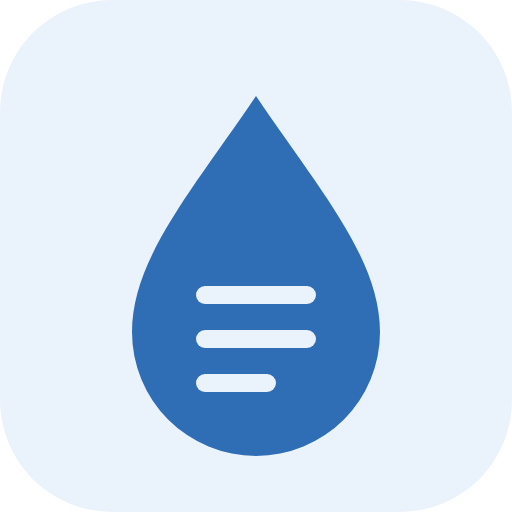
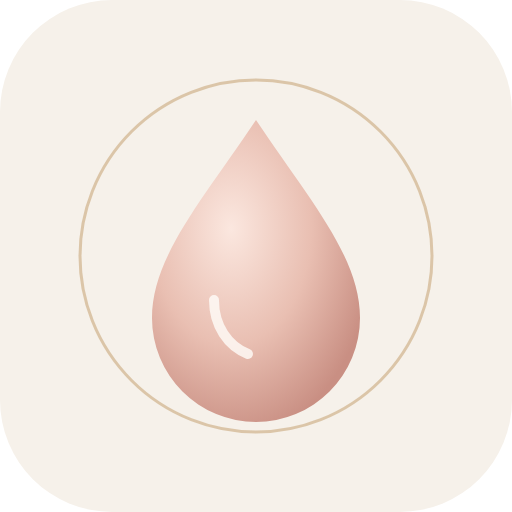
トップページと配色を美容テイストに刷新

diff --git a/index.html b/index.html
@@ -3,7 +3,7 @@
 <head>
 <meta charset="utf-8">
 <meta name="viewport" content="width=device-width, initial-scale=1, viewport-fit=cover">
-<meta name="theme-color" content="#2f6db5">
+<meta name="theme-color" content="#f6f1ea">
 <meta name="description" content="化粧品の登録、曜日ごとの朝・夜ルーティン、成分の重なりチェックができる無料のスキンケア管理アプリ。データは端末内だけに保存。">
 <meta name="apple-mobile-web-app-capable" content="yes">
 <meta name="apple-mobile-web-app-title" content="スキンケア">
@@ -143,6 +143,54 @@ dialog::backdrop{background:rgba(10,25,45,.45)}
 .ocrbox .chips .chip{font-size:13px;text-align:left}
 .ocrbox textarea{font-size:13px}
 @media (prefers-reduced-motion:reduce){*{transition:none!important}}
+
+/* ===== beauty theme ===== */
+:root{
+  --serif:"Hiragino Mincho ProN","Hiragino Mincho Pro","Yu Mincho","YuMincho","Noto Serif JP","Noto Serif CJK JP",serif;
+  --sky:#f6f1ea; --paper:#fffdf9; --ink:#2b2622; --sub:#7d7068; --line:#e7ddd2;
+  --blue:#a5645a; --blue-deep:#7a453e; --tint:#f2e6de; --warn:#9c5532; --warn-bg:#f8eadf; --muted:#bcafa4; --ok:#6f8a6a;
+  --gold:#c9a97c; --bg:var(--sky); --card:var(--paper); --text:var(--ink);
+}
+:root[data-mode="night"]{
+  --bg:#1d191b; --card:#28222a; --text:#f2e9e2; --sub:#bfb0a6; --line:#3c3339;
+  --tint:#3a2f33; --blue:#dcaaa0; --blue-deep:#f1d2c9; --warn:#efb48f; --warn-bg:#3a2c27; --muted:#86797a; --gold:#bfa07a;
+}
+body{letter-spacing:.02em}
+header.top h1{font-family:var(--serif);font-weight:500;font-size:14px;letter-spacing:.28em;color:var(--sub)}
+.dow{font-family:var(--serif);font-weight:500;letter-spacing:0;color:var(--blue-deep)}
+h2,h3,.progress h2{font-family:var(--serif);font-weight:600;letter-spacing:.06em}
+.chip[aria-pressed="true"],:root[data-mode="night"] .chip[aria-pressed="true"]{color:var(--bg)}
+.btn{border-radius:999px;padding:10px 18px;letter-spacing:.06em}
+.btn.primary,:root[data-mode="night"] .btn.primary{background:var(--ink);border-color:var(--ink);color:var(--paper)}
+:root[data-mode="night"] .btn.primary{background:var(--blue-deep);border-color:var(--blue-deep);color:var(--bg)}
+.btn.sm{border-radius:999px}
+ol.steps li,.card,details.prod{border-color:var(--line);box-shadow:0 1px 2px rgba(60,40,30,.04)}
+.bar{height:3px}
+.seg{background:var(--tint)}
+nav.tabs{background:color-mix(in srgb,var(--card) 92%,transparent);backdrop-filter:blur(10px);-webkit-backdrop-filter:blur(10px)}
+nav.tabs button[aria-current="page"]{color:var(--blue)}
+/* welcome */
+.welcome{position:relative;min-height:calc(100vh - 140px);display:flex;flex-direction:column;justify-content:center;padding:36px 6px 24px;overflow:hidden}
+.w-orb{position:absolute;right:-90px;top:-40px;width:320px;height:320px;border-radius:50%;
+  background:radial-gradient(circle at 35% 35%,#fbe7df 0%,#f1cfc4 38%,#e9d8bf 70%,rgba(233,216,191,0) 72%);filter:blur(2px);opacity:.9;animation:wfloat 9s ease-in-out infinite;pointer-events:none}
+.w-orb::after{content:"";position:absolute;inset:-26px;border-radius:50%;border:1px solid color-mix(in srgb,var(--gold) 55%,transparent)}
+.w-orb::before{content:"";position:absolute;inset:-60px;border-radius:50%;border:1px solid color-mix(in srgb,var(--gold) 25%,transparent)}
+@keyframes wfloat{50%{transform:translateY(12px)}}
+.w-kicker{position:relative;font-family:var(--serif);font-size:12px;letter-spacing:.42em;color:var(--blue);margin:0 0 18px}
+.w-kicker::after{content:"";display:inline-block;width:40px;height:1px;background:var(--gold);vertical-align:middle;margin-left:12px}
+.w-title{position:relative;font-family:var(--serif);font-weight:500;font-size:clamp(30px,8.6vw,42px);line-height:1.45;letter-spacing:.08em;margin:0 0 18px;color:var(--ink)}
+.w-title em{font-style:normal;color:var(--blue)}
+.w-lead{position:relative;font-size:14.5px;line-height:2;color:var(--sub);margin:0 0 28px;max-width:30em}
+.w-actions{position:relative;display:flex;gap:10px;flex-wrap:wrap}
+.w-actions .btn{padding:13px 26px;font-size:15px}
+.w-note{position:relative;font-size:12px;letter-spacing:.12em;color:var(--muted);margin:16px 0 0}
+.w-steps{position:relative;list-style:none;margin:40px 0 0;padding:0;border-top:1px solid var(--line)}
+.w-steps li{display:flex;gap:18px;align-items:baseline;padding:16px 2px;border-bottom:1px solid var(--line)}
+.w-num{font-family:var(--serif);font-size:13px;letter-spacing:.1em;color:var(--gold);flex:none;width:24px}
+.w-steps b{display:block;font-family:var(--serif);font-weight:600;font-size:16px;letter-spacing:.1em;margin-bottom:2px}
+.w-steps span:not(.w-num){font-size:13px;color:var(--sub)}
+nav.tabs[hidden]{display:none}
+@media (prefers-reduced-motion:reduce){.w-orb{animation:none}}
 </style>
 
 </head>
@@ -231,7 +279,9 @@ function render(){
   document.documentElement.dataset.mode=(view.tab==='today'&&view.mode==='pm')?'night':'day';
   document.querySelectorAll('#tabs button').forEach(b=>b.setAttribute('aria-current',b.dataset.tab===view.tab?'page':'false'));
   const app=document.getElementById('app');
-  app.innerHTML='<header class="top"><h1>スキンケア・ノート</h1></header>'+({today,week,prod:prodView,set:settings})[view.tab]();
+  const body=({today,week,prod:prodView,set:settings})[view.tab]();
+  app.innerHTML=(body.startsWith('<section class="welcome"')?'':'<header class="top"><h1>スキンケア・ノート</h1></header>')+body;
+  document.getElementById('tabs').hidden=body.startsWith('<section class="welcome"');
   for(const k in timers)paintTimer(k);
 }
 function today(){
@@ -256,9 +306,15 @@ function today(){
   return h;
 }
 function welcome(){
-  return'<div class="empty"><div class="dow" style="font-size:72px">肌</div><h2>スキンケア・ノート</h2><p class="sub">使っている化粧品を登録して、曜日ごとの朝・夜の手順を作り、毎日チェックするためのアプリです。<br>データはこの端末の中だけに保存されます。</p>'+
-  '<div class="card" style="text-align:left"><ol class="plain"><li>製品のタブで、使っている化粧品を登録（写真から読み取りもできます）</li><li>ルーティンのタブで、曜日ごとの朝・夜の手順を作る</li><li>今日のタブで、毎日チェック</li></ol></div>'+
-  '<div class="row" style="justify-content:center"><button class="btn primary" data-act="start">製品を登録する</button><button class="btn" data-act="sample">サンプルで試す</button></div></div>';
+  return'<section class="welcome"><div class="w-orb" aria-hidden="true"></div>'+
+  '<p class="w-kicker">SKINCARE NOTE</p>'+
+  '<h2 class="w-title">わたしの肌に、<br><em>ちょうどいい</em><br>手順を。</h2>'+
+  '<p class="w-lead">使っている化粧品を登録して、曜日ごとの朝と夜のケアを組み立てる。成分の重なりもそっと知らせてくれる、スキンケアのためのノートです。</p>'+
+  '<div class="w-actions"><button class="btn primary" data-act="start">はじめる</button><button class="btn" data-act="sample">サンプルで試す</button></div>'+
+  '<p class="w-note">ログイン不要 ・ 無料 ・ データはこの端末の中だけ</p>'+
+  '<ol class="w-steps"><li><span class="w-num">01</span><div><b>登録する</b><span>化粧品を、写真から読み取って登録</span></div></li>'+
+  '<li><span class="w-num">02</span><div><b>組み立てる</b><span>曜日ごとに、朝と夜の手順をつくる</span></div></li>'+
+  '<li><span class="w-num">03</span><div><b>続ける</b><span>毎日チェックして、肌のメモを残す</span></div></li></ol></section>';
 }
 function week(){
   const dk=view.wday,period=view.wmode,steps=stepsFor(period,dk);

diff --git a/sw.js b/sw.js
@@ -1,4 +1,4 @@
-const C='skincare-note-v1';
+const C='skincare-note-v2';
 const A=['./','index.html','manifest.webmanifest','icon.svg','icon-192.png','icon-512.png'];
 self.addEventListener('install',e=>{e.waitUntil(caches.open(C).then(c=>c.addAll(A)));self.skipWaiting()});
 self.addEventListener('activate',e=>{e.waitUntil(caches.keys().then(ks=>Promise.all(ks.filter(k=>k!==C).map(k=>caches.delete(k)))));self.clients.claim()});
